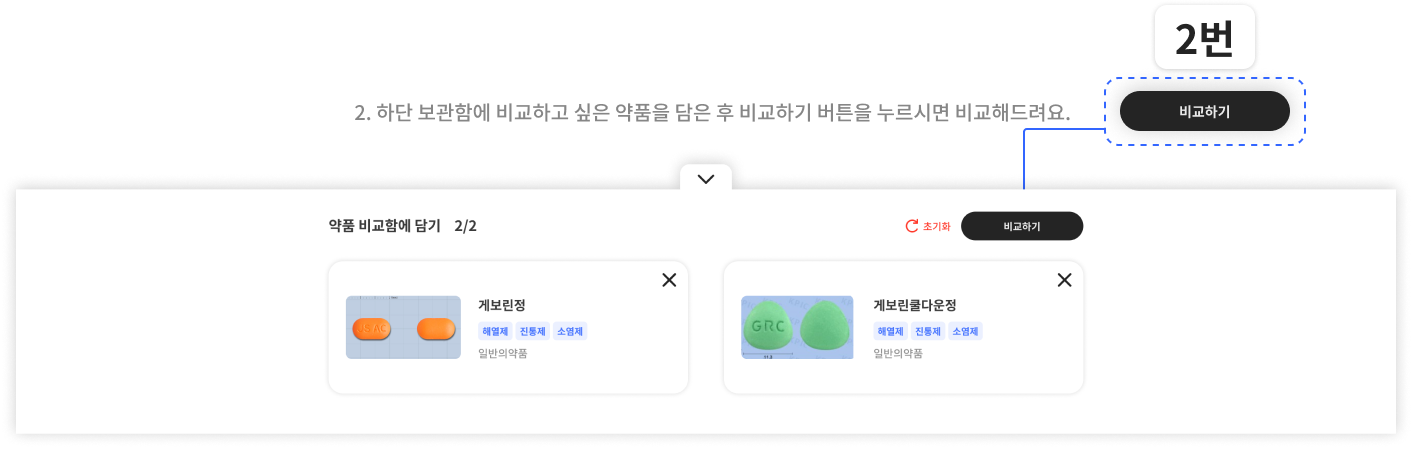
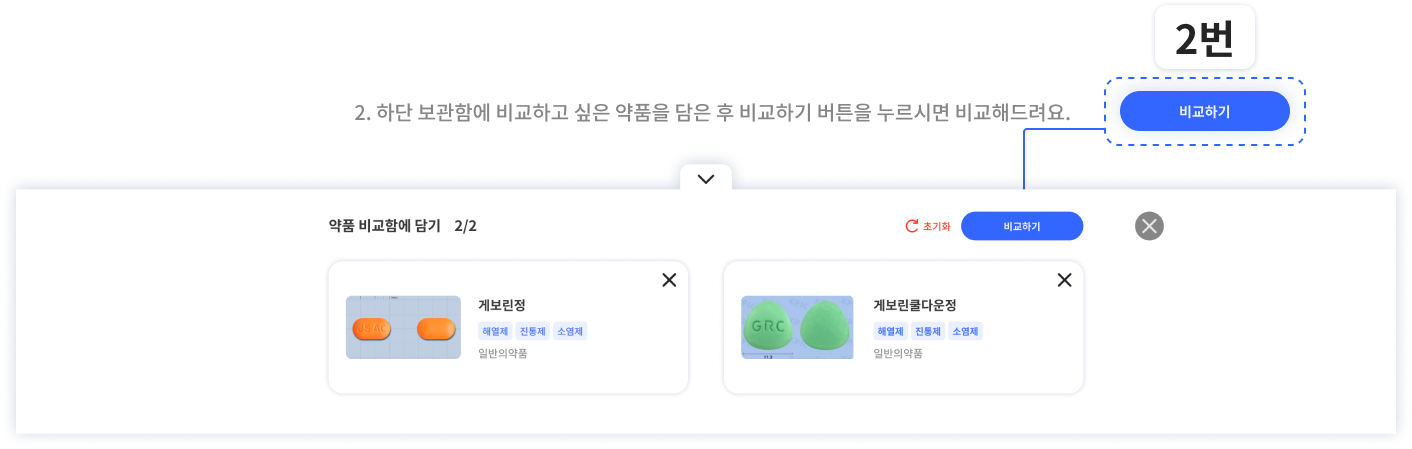
STYLE: [수정] 비교함 디자인 변경 반영

Changed region(s): [[0.779, 0.1871, 0.9348, 0.3118], [0.6544, 0.4677, 0.8414, 0.5612]]

diff --git a/src/components/common/CompareBox.jsx b/src/components/common/CompareBox.jsx
@@ -210,7 +210,7 @@ const Wrap = styled.div`
     top: 0;
     width: 100%;
     height: 100%;
-    box-shadow: 0 0 24px 1px rgba(0, 0, 0, 0.2);
+    box-shadow: 0 0 24px 1px rgba(10, 32, 98, 0.15);
     z-index: 2;
     background-color: white;
   }
@@ -225,7 +225,7 @@ const Wrap = styled.div`
     width: 72px;
     height: 55px;
     background-color: #ffffff;
-    box-shadow: 0px 0px 30px 1px rgba(0, 0, 0, 0.2);
+    box-shadow: 0px -2px 30px 0px rgba(10, 32, 98, 0.15);
     border-radius: 10px;
     display: flex;
     align-items: center;
@@ -310,17 +310,17 @@ const BoxTop = styled.div`
   }
   .goToCompareBtn {
     @media screen and (max-width: 1700px) {
-      font-size: 15px;
       width: 136px;
       height: 38px;
     }
     width: 170px;
     height: 40px;
     background-color: ${({ isArrLength }) =>
-      isArrLength === 2 ? '#242424' : '#B7B7B7'};
+      isArrLength === 2 ? '#3366ff' : '#B7B7B7'};
     border-radius: 38px;
     border: none;
     color: white;
+    font-size: 14px;
     cursor: ${({ isArrLength }) => (isArrLength === 2 ? 'pointer' : 'auto')};
     font-weight: bold;
   }
@@ -368,16 +368,16 @@ const ListCard = styled.div`
   padding: 48px 24px;
   display: flex;
   align-items: center;
-  cursor: pointer;
   ${({ isFill }) =>
     isFill
       ? `
       background-color: #ffffff;
-      box-shadow: 0 0 8px 0 rgba(0, 0, 0, 0.15);
+      box-shadow: 0 0 8px 0 rgba(10, 32, 98, 0.2);
     `
       : `background-color: #E7E7E7;
       justify-content: center;
-      flex-direction: column;`}
+      flex-direction: column;
+      cursor: pointer;`}
   .cardImg {
     @media screen and (max-width: 1700px) {
       min-width: 150px;
@@ -416,6 +416,7 @@ const ListCard = styled.div`
     color: #3366ff;
     font-weight: 500;
     font-size: 13px;
+    line-height: 19px;
   }
   .listSubContent {
     font-size: 14px;

diff --git a/src/pages/Compare.jsx b/src/pages/Compare.jsx
@@ -1325,7 +1325,6 @@ const NothingInBoxWrap = styled.div`
     text-align: center;
     margin-bottom: 58px;
     @media screen and (max-width: 1700px) {
-      /* margin-bottom: 40px; */
       font-size: 35px;
     }
     @media screen and (min-width: 2560px) {
@@ -1340,8 +1339,6 @@ const NothingInBoxWrap = styled.div`
     background-position: center;
     margin-bottom: 55px;
     @media screen and (max-width: 1700px) {
-      /* background-size: 100%;
-      background-repeat: no-repeat; */
       margin-bottom: 0px;
       height: 200px;
     }
@@ -1356,8 +1353,6 @@ const NothingInBoxWrap = styled.div`
     background-size: cover;
     background-position: center;
     @media screen and (max-width: 1700px) {
-      /* background-size: 100%;
-      background-repeat: no-repeat; */
       height: 340px;
     }
   }
